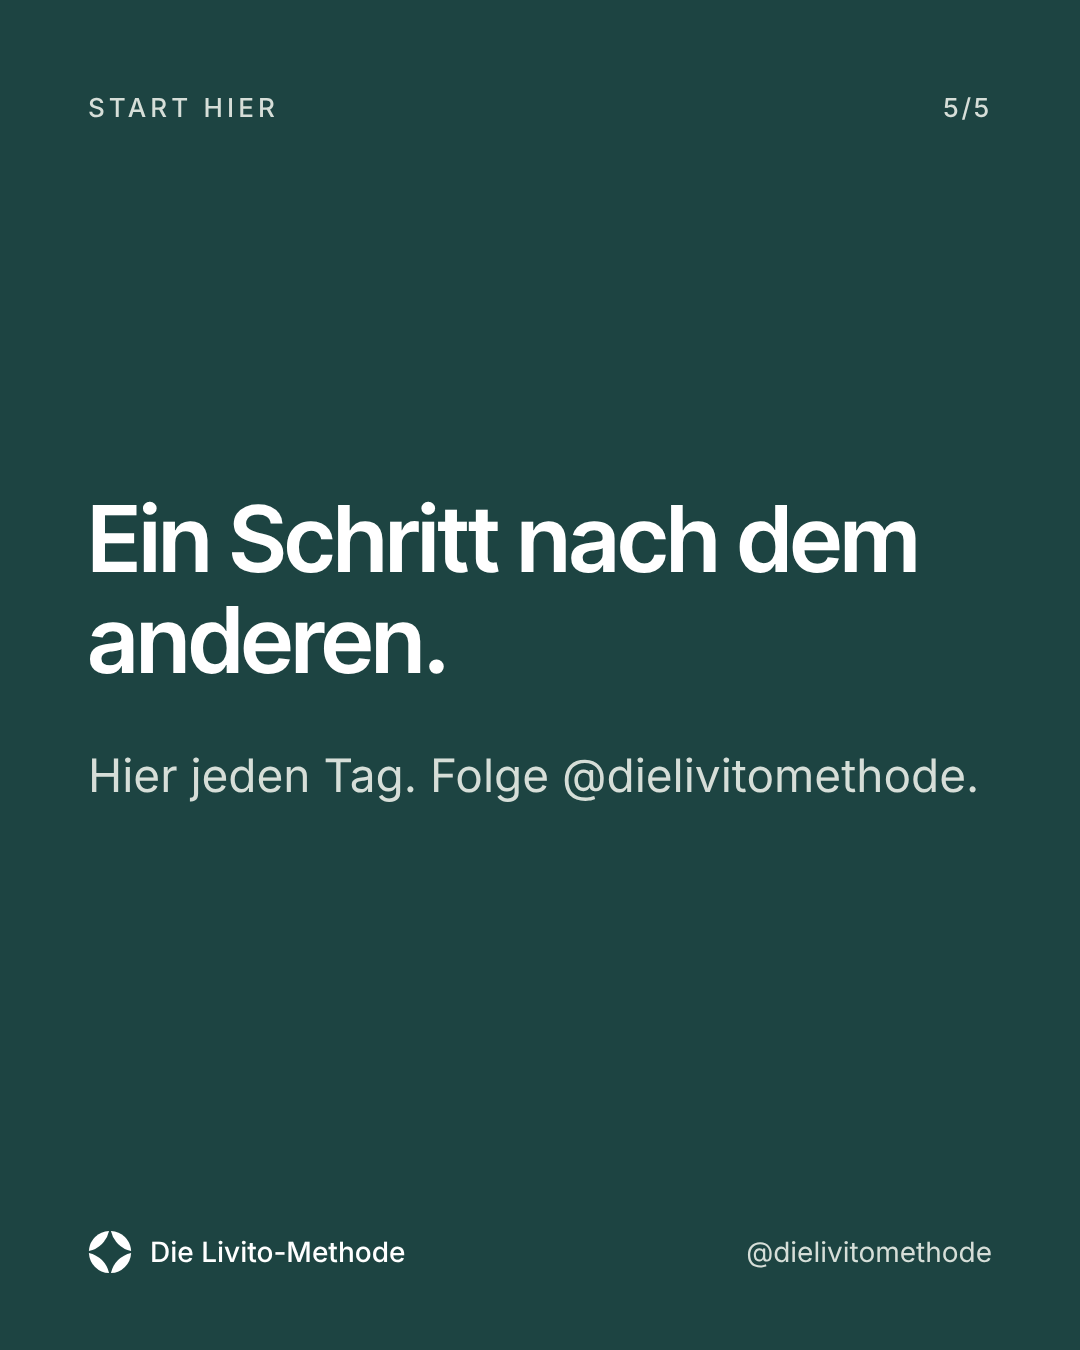
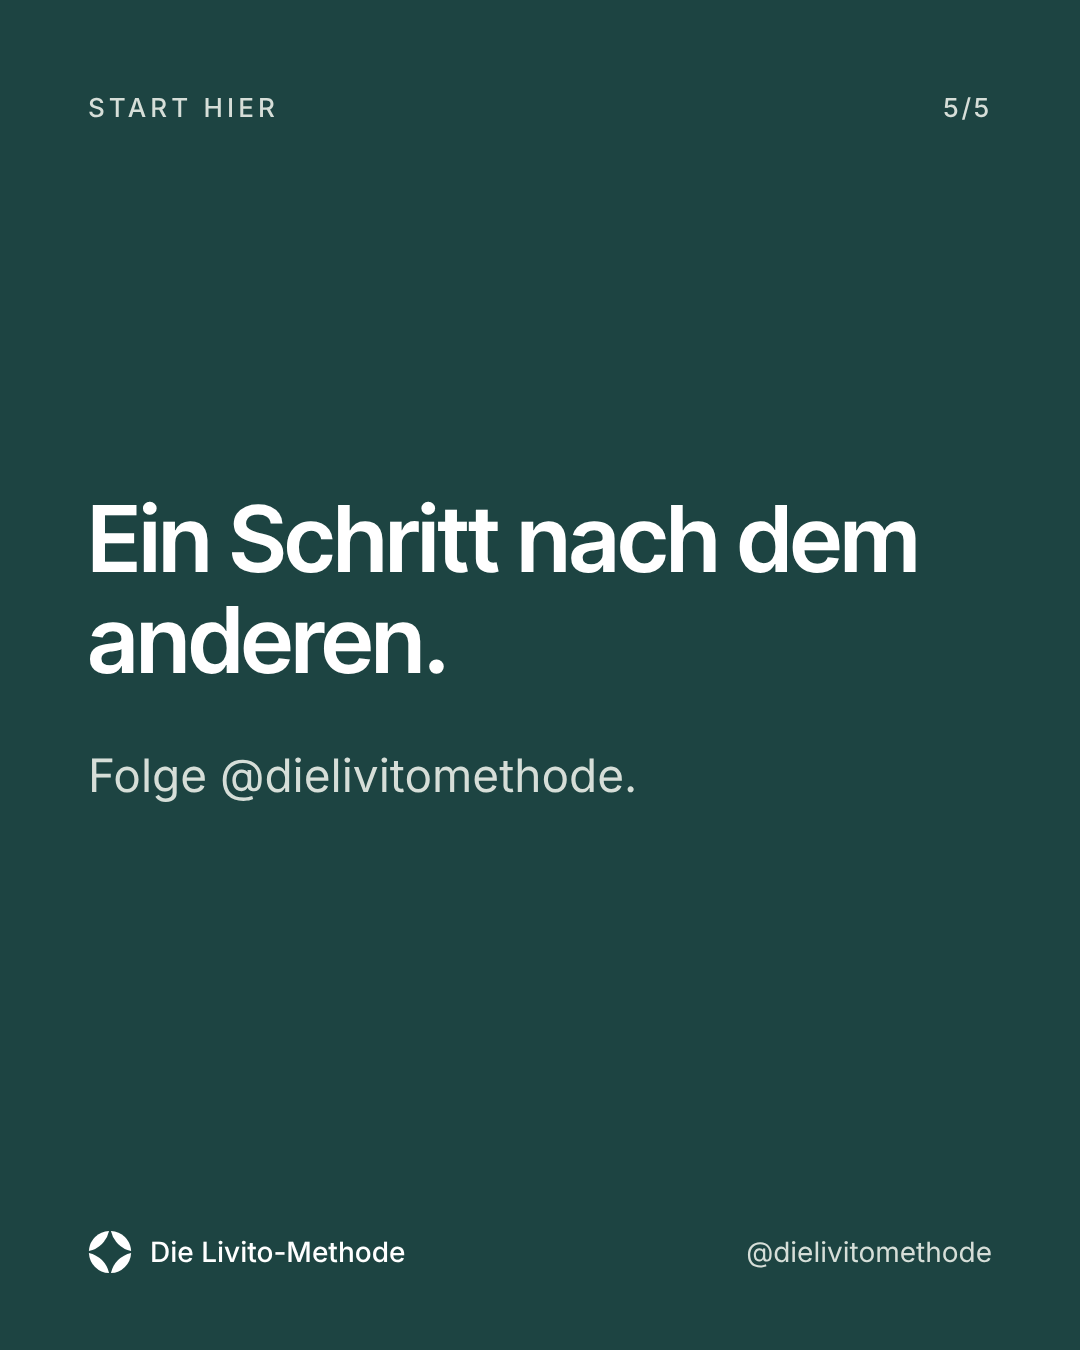
Serie Eine Frage zum Geld (drei Beispiele), Schlussfolien ohne Taktversprechen
Claude-Session: https://claude.ai/code/session_01CRzVGdoBZCufKEeWQ2iiG6

Changed region(s): [[0.0917, 0.56, 0.9167, 0.5911]]

diff --git a/system/slides.html b/system/slides.html
@@ -52,6 +52,11 @@
 .mid .list li{font-size:50px}
 .mid .row{font-size:48px;padding:34px 28px}
 .mid .sub{font-size:46px}
+.zitat{font-family:'Inter Tight';font-weight:600;font-size:76px;line-height:1.12;letter-spacing:-.01em;color:var(--petrol);margin:0}
+.quelle{font-size:30px;line-height:1.4;color:var(--stein);margin:32px 0 0}
+.ask{margin:72px 0 0;display:flex;flex-direction:column;gap:48px}
+.ask div{display:flex;align-items:center;gap:40px;font-size:46px;line-height:1.35;color:#fff}
+.ask svg{width:84px;height:84px;flex:none}
 </style>
 </head>
 <body>
@@ -65,6 +70,13 @@ const band = () => { const R = 86, step = 2.4*R, n = 8, s = (2*R)/96, y = 95 - 5
 const kopf = (label, i, n) => `<div class="top"><span>${label}</span><span class="nr">${i}/${n}</span></div>`;
 const foot = (dark, hint) => `<div class="foot"><span class="brand">${signet(dark?'#fff':'#1D4442')}<span>Die Livito-Methode</span></span><span class="hint">${hint||'@dielivitomethode'}</span></div>`;
 
+const ICON = { antwort:'<svg viewBox="0 0 48 48" fill="none" stroke="#D6DED8" stroke-width="2.4" stroke-linecap="round" stroke-linejoin="round"><path d="M24 6C13.5 6 6 13.2 6 22.6c0 4.6 1.9 8.7 5.1 11.7L9.4 42l8.4-3.2c2 .6 4 .9 6.2.9 10.5 0 18-7.3 18-17.1S34.5 6 24 6z"/></svg>',
+  senden:'<svg viewBox="0 0 48 48" fill="none" stroke="#D6DED8" stroke-width="2.4" stroke-linecap="round" stroke-linejoin="round"><path d="M42 6L5 21l14 6 6 15z"/><path d="M19 27L42 6"/></svg>' };
+const frage = (q, cls, zitat, quelle, text) => ({ label:'Eine Frage zum Geld', n:3, slides:[
+  s=>`${kopf(s.label,1,s.n)}<h1 class="title ${cls}">${q}</h1><div class="grow"></div>${band()}${foot(true,'Wischen →')}`,
+  s=>`${kopf(s.label,2,s.n)}<div class="mid"><p class="zitat">${zitat}</p><p class="quelle">${quelle}</p>${text.map(t=>`<p class="body">${t}</p>`).join('')}</div>${foot(false)}`,
+  s=>`${kopf(s.label,3,s.n)}<div class="mid"><p class="statement">Deine Antwort?</p><div class="ask"><div>${ICON.antwort}<span>Schreib sie in die Kommentare.</span></div><div>${ICON.senden}<span>Oder stell die Frage jemandem, dessen Antwort dich interessiert.</span></div></div></div>${foot(true)}`,
+]});
 const C = {
  notgroschen: { label:'Schritt für Schritt', n:7, slides:[
   s=>`${kopf(s.label,1,s.n)}<h1 class="title">1.500 Euro. Mehr braucht dein erster Notgroschen nicht.</h1><div class="grow"></div>${band()}${foot(true,'Wischen →')}`,
@@ -94,7 +106,7 @@ const C = {
   s=>`${kopf(s.label,3,s.n)}<div class="mid"><h2 class="h">Kein Versprechen auf Reichtum</h2><p class="body">Es geht nicht darum, reich zu werden.</p><p class="body">Es geht darum zu wissen, dass der Kontostand reicht.</p></div>${foot(false)}`,
   s=>`${kopf(s.label,4,s.n)}<div class="mid"><h2 class="h">Woher der Name kommt</h2><p class="body">Livito kommt vom italienischen lievito, Hefe.</p><p class="body">Wie beim Sauerteig: einmal ansetzen, regelmäßig füttern, den Rest erledigt die Zeit.</p></div>${foot(false)}`,
   s=>`${kopf(s.label,5,s.n)}<div class="mid"><h2 class="h">Was dazugehört</h2><ul class="list"><li>Ein Buch</li><li>Sieben Rechner</li><li>Vorlagen zum Ausfüllen</li></ul></div>${foot(false)}`,
-  s=>`${kopf(s.label,6,s.n)}<div class="mid"><p class="statement">Hier gibt es jeden Tag eine Sache, die Ruhe in dein Geld bringt.</p><p class="sub">Folge @dielivitomethode.</p></div>${foot(true)}`,
+  s=>`${kopf(s.label,6,s.n)}<div class="mid"><p class="statement">Hier lernst du Gelassenheit mit Geld.</p><p class="sub">Folge @dielivitomethode.</p></div>${foot(true)}`,
  ]},
  schritte: { label:'Start hier', n:6, slides:[
   s=>`${kopf(s.label,1,s.n)}<h1 class="title">Vier Schritte. In genau dieser Reihenfolge.</h1><div class="grow"></div>${band()}${foot(true,'Wischen →')}`,
@@ -109,7 +121,7 @@ const C = {
   s=>`${kopf(s.label,2,s.n)}<div class="mid"><h2 class="h">Kommt dir das bekannt vor?</h2><ul class="list"><li>Der Dispo ist öfter im Minus als im Plus.</li><li>Ein paar Raten laufen nebenher.</li><li>Die Altersvorsorge steht seit Jahren auf der Liste.</li></ul></div>${foot(false)}`,
   s=>`${kopf(s.label,3,s.n)}<div class="mid"><h2 class="h">Es liegt nicht am Einkommen</h2><p class="body">Finanzielle Gelassenheit entsteht durch Struktur, nicht durch ein hohes Gehalt.</p></div>${foot(false)}`,
   s=>`${kopf(s.label,4,s.n)}<div class="mid"><h2 class="h">Für wen es nicht ist</h2><p class="body">Für alle, die schnell reich werden wollen.</p><p class="body">Und wenn die Raten schon jetzt nicht mehr zu schaffen sind, ist eine Schuldnerberatung der bessere erste Schritt.</p></div>${foot(false)}`,
-  s=>`${kopf(s.label,5,s.n)}<div class="mid"><p class="statement">Ein Schritt nach dem anderen.</p><p class="sub">Hier jeden Tag. Folge @dielivitomethode.</p></div>${foot(true)}`,
+  s=>`${kopf(s.label,5,s.n)}<div class="mid"><p class="statement">Ein Schritt nach dem anderen.</p><p class="sub">Folge @dielivitomethode.</p></div>${foot(true)}`,
  ]},
  satz2: { label:'Ein Satz zum Geld', n:3, slides:[
   s=>`${kopf(s.label,1,s.n)}<h1 class="title m">Was mir über die Jahre gefehlt hat, war etwas anderes: eine Reihenfolge.</h1><p class="attr">Aus dem Buch „Die Livito-Methode“</p><div class="grow"></div>${band()}${foot(true,'Wischen →')}`,
@@ -117,7 +129,10 @@ const C = {
   s=>`${kopf(s.label,3,s.n)}<div class="mid"><p class="statement">Erst das eine. Dann das nächste.</p><p class="sub">In vier Schritten zur finanziellen Gelassenheit.</p></div>${foot(true)}`,
  ]},
 };
-const dark = { notgroschen:[0,6], schneeball:[0,5], satz:[0,2], methode:[0,5], schritte:[0,5], fuerwen:[0,4], satz2:[0,2] };
+C.frage1 = frage('Wie viel ist für dich genug?','', '„Nichts ist genug für den, dem genug zu wenig ist.“', 'Epikur, Vatikanische Spruchsammlung 68', ['Die meisten kennen ihr Gehalt auf den Euro genau. Ihre Zahl für „genug“ kennen wenige.']);
+C.frage2 = frage('Morgen kommt eine Rechnung über 1.000&nbsp;Euro. Woher nimmst du das Geld?','m', 'Aus einer Krise wird ein Ärgernis, das man selbst lösen kann, ohne jemanden fragen zu müssen.', 'Aus dem Buch „Die Livito-Methode“', ['Dafür ist der Notgroschen da: 1.500&nbsp;Euro auf einem eigenen Tagesgeldkonto.']);
+C.frage3 = frage('Wer hat bei dir das Sagen: du oder dein Geld?','', '„Beim Weisen dient der Reichtum, beim Toren herrscht er.“', 'Seneca, Vom glücklichen Leben 26,1', ['Geld herrscht, solange es dich nachts beschäftigt. Es dient, sobald jeder Teil eine Aufgabe hat.']);
+const dark = { notgroschen:[0,6], schneeball:[0,5], satz:[0,2], methode:[0,5], schritte:[0,5], fuerwen:[0,4], satz2:[0,2], frage1:[0,2], frage2:[0,2], frage3:[0,2] };
 for (const key of Object.keys(C)) { const s = C[key];
   s.slides.forEach((fn,i)=>{ const d = document.createElement('div'); d.className = 'slide ' + (dark[key].includes(i)?'petrol':'papier'); d.id = `${key}-${i+1}`; d.innerHTML = fn(s); document.body.appendChild(d); });
 }

diff --git a/system/render_slides.py b/system/render_slides.py
@@ -1,6 +1,11 @@
+"""Rendert die Folien aus slides.html nach ../media/karussell/<serie>-<nr>.png.
+Aufruf: render_slides.py [praefix ...]   ohne Angabe werden alle Folien gerendert, sonst nur die mit passendem Anfang (z. B. frage methode-6)."""
 import os, sys
 from playwright.sync_api import sync_playwright
 W = os.path.dirname(os.path.abspath(__file__))
+OUT = os.path.normpath(os.path.join(W, '..', 'media', 'karussell'))
+os.makedirs(OUT, exist_ok=True)
+nur = sys.argv[1:]
 with sync_playwright() as p:
     b = p.chromium.launch()
     pg = b.new_page(viewport={'width': 1080, 'height': 1350}, device_scale_factor=1)
@@ -8,10 +13,10 @@ with sync_playwright() as p:
     pg.evaluate('document.fonts.ready')
     pg.wait_for_timeout(400)
     ids = pg.eval_on_selector_all('.slide', 'els => els.map(e => e.id)')
+    if nur: ids = [i for i in ids if any(i.startswith(n) for n in nur)]
     over = []
     for i in ids:
-        el = pg.locator('#' + i)
-        el.screenshot(path=f'{W}/slides/{i}.png')
+        pg.locator('#' + i).screenshot(path=f'{OUT}/{i}.png')
         # Ueberlauf pruefen: Inhalt hoeher als die Folie?
         sh, ch = pg.evaluate(f"(()=>{{const e=document.getElementById('{i}');return [e.scrollHeight,e.clientHeight]}})()")
         if sh > ch: over.append((i, sh, ch))
